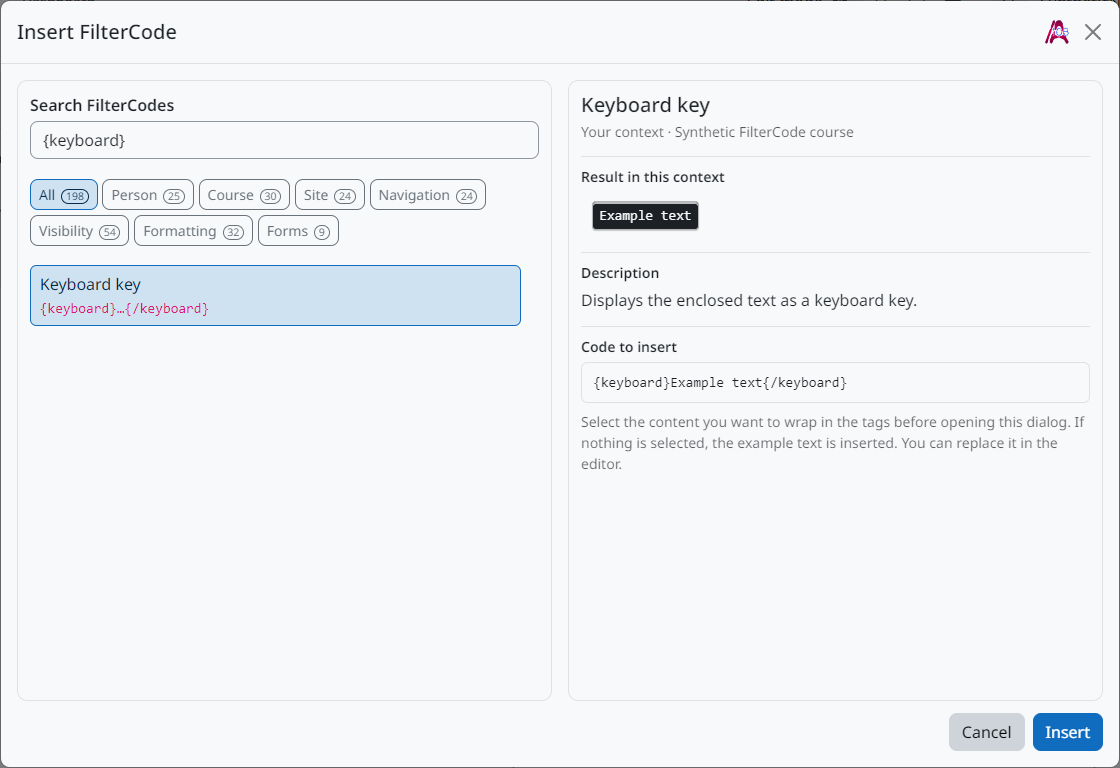
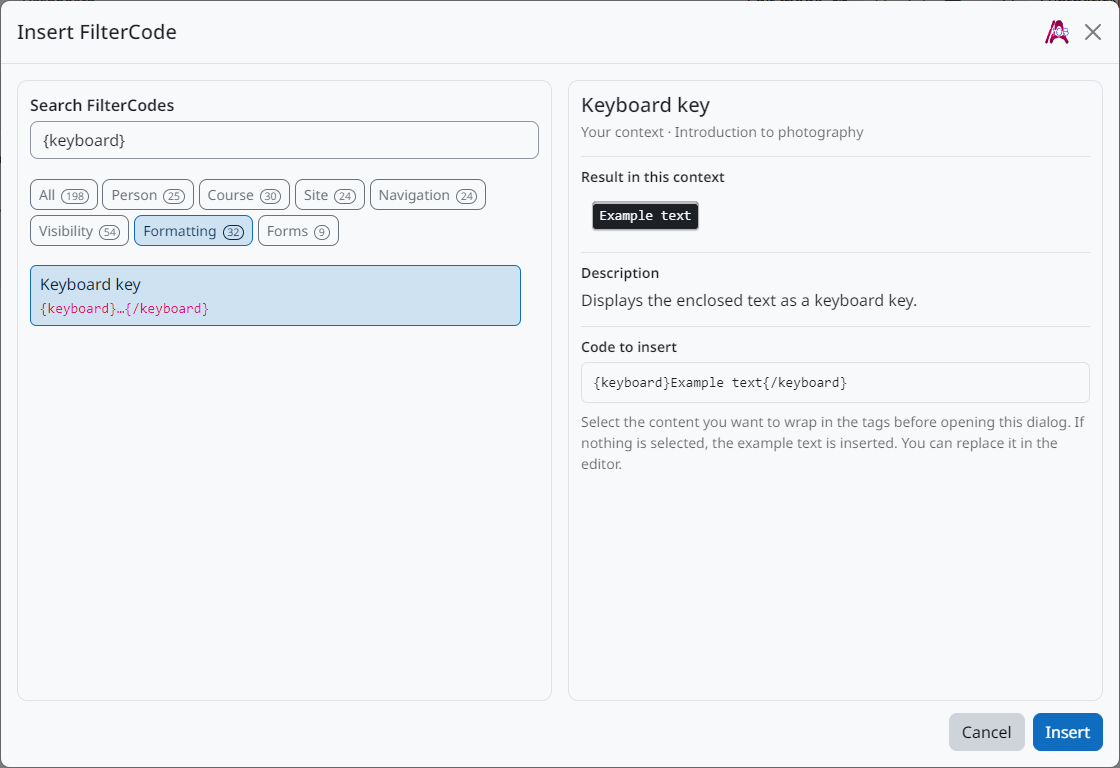
Align FilterCode Picker public presentation and source archive

Changed region(s): [[0.0938, 0.2812, 0.25, 0.3438], [0.5938, 0.1562, 0.7812, 0.1875], [0.0312, 0.2188, 0.0938, 0.2812]]

diff --git a/README.md b/README.md
@@ -1,33 +1,41 @@
+<p align="center">
+  <img src="https://raw.githubusercontent.com/108design/moodle-tiny_filtercodepicker/main/docs/branding/logo.svg" alt="FilterCode Picker" width="125" height="125">
+</p>
+
 # FilterCode Picker for TinyMCE
 
-<img src="pix/icon.svg" alt="" width="72" align="right">
-
-Find and insert FilterCodes while you edit Moodle content in TinyMCE. The picker has 198 entries and can show what a tag returns in the current course or activity.
+Find and insert FilterCodes while editing Moodle content in TinyMCE. The picker lists 198 entries and shows a preview when the code can be evaluated in the current course or activity.
 
 <details>
 <summary>Screenshots</summary>
 
-| Browse the catalogue | Preview a formatting tag |
+| Browse the course codes | Preview formatted text |
 | --- | --- |
-| [![FilterCode Picker with category counts and a contextual preview](docs/screenshots/catalogue.png)](docs/screenshots/catalogue.png) | [![FilterCode Picker showing how a keyboard tag renders](docs/screenshots/preview.png)](docs/screenshots/preview.png) |
+| [![Course name preview in the FilterCode Picker](docs/screenshots/catalogue.png)](docs/screenshots/catalogue.png) | [![Keyboard formatting preview in the FilterCode Picker](docs/screenshots/preview.png)](docs/screenshots/preview.png) |
 
 </details>
 
 ## Installation
 
 1. Install [FilterCodes 3.1.0 or later](https://marketplace.moodle.com/plugins/filter_filtercodes/versions). Enable the filter where you want to use the picker.
-2. Install the FilterCode Picker ZIP through **Site administration → Plugins → Install plugins**. For a manual installation, place the `filtercodepicker` directory under `lib/editor/tiny/plugins/` in Moodle's web root and run the Moodle upgrade.
-3. Open a TinyMCE editor. Use the bracket icon in the toolbar or choose **Insert → Insert FilterCode**.
-
-Supports Moodle 4.5 through 5.3. The picker requires the `tiny/filtercodepicker:use` capability. Editing teachers and managers have it by default in their assigned contexts.
+2. Upload the [installation ZIP](https://github.com/108design/moodle-tiny_filtercodepicker/releases) under **Site administration → Plugins → Install plugins**. For a manual installation, place the `filtercodepicker` directory under `lib/editor/tiny/plugins/` in Moodle's web root and run the Moodle upgrade.
+3. In TinyMCE, click the bracket icon in the toolbar or choose **Insert → Insert FilterCode**.
 
 ## Using the picker
 
-Search by tag name or browse the categories. Each badge counts the codes in its category. Choose an entry to read its description and see the code before inserting it. If the preview depends on the final page or needs more input, the picker tells you what is missing.
+Search by tag name or browse a category. The badges show how many codes each category contains. Select a result to read its description, check the exact code and see a preview where available. Tags that need more input or depend on the final page show an explanation.
 
-To wrap existing content in a pair of tags, select it in TinyMCE before opening the picker. The selection keeps its formatting. With an empty selection, the picker inserts example text you can replace.
+To wrap existing text in a pair of tags, select it before opening the picker. The selection keeps its formatting. If you open the picker without a selection, paired tags include example text you can replace.
 
-FilterCode Picker is a companion to [Michael Milette's FilterCodes filter](https://github.com/michael-milette/moodle-filter_filtercodes), which processes the inserted tags when Moodle displays the content.
+[Michael Milette's FilterCodes filter](https://github.com/michael-milette/moodle-filter_filtercodes) processes the tags when Moodle displays the content.
+
+## Compatibility and permissions
+
+Supports Moodle 4.5 through 5.3. The picker requires the `tiny/filtercodepicker:use` capability. Editing teachers and managers have it by default in their assigned contexts.
+
+## Support
+
+Use the [issue tracker](https://github.com/108design/moodle-tiny_filtercodepicker/issues) to report a problem. Include your Moodle and FilterCodes versions, the active theme and the steps to reproduce it.
 
 ## License
 
